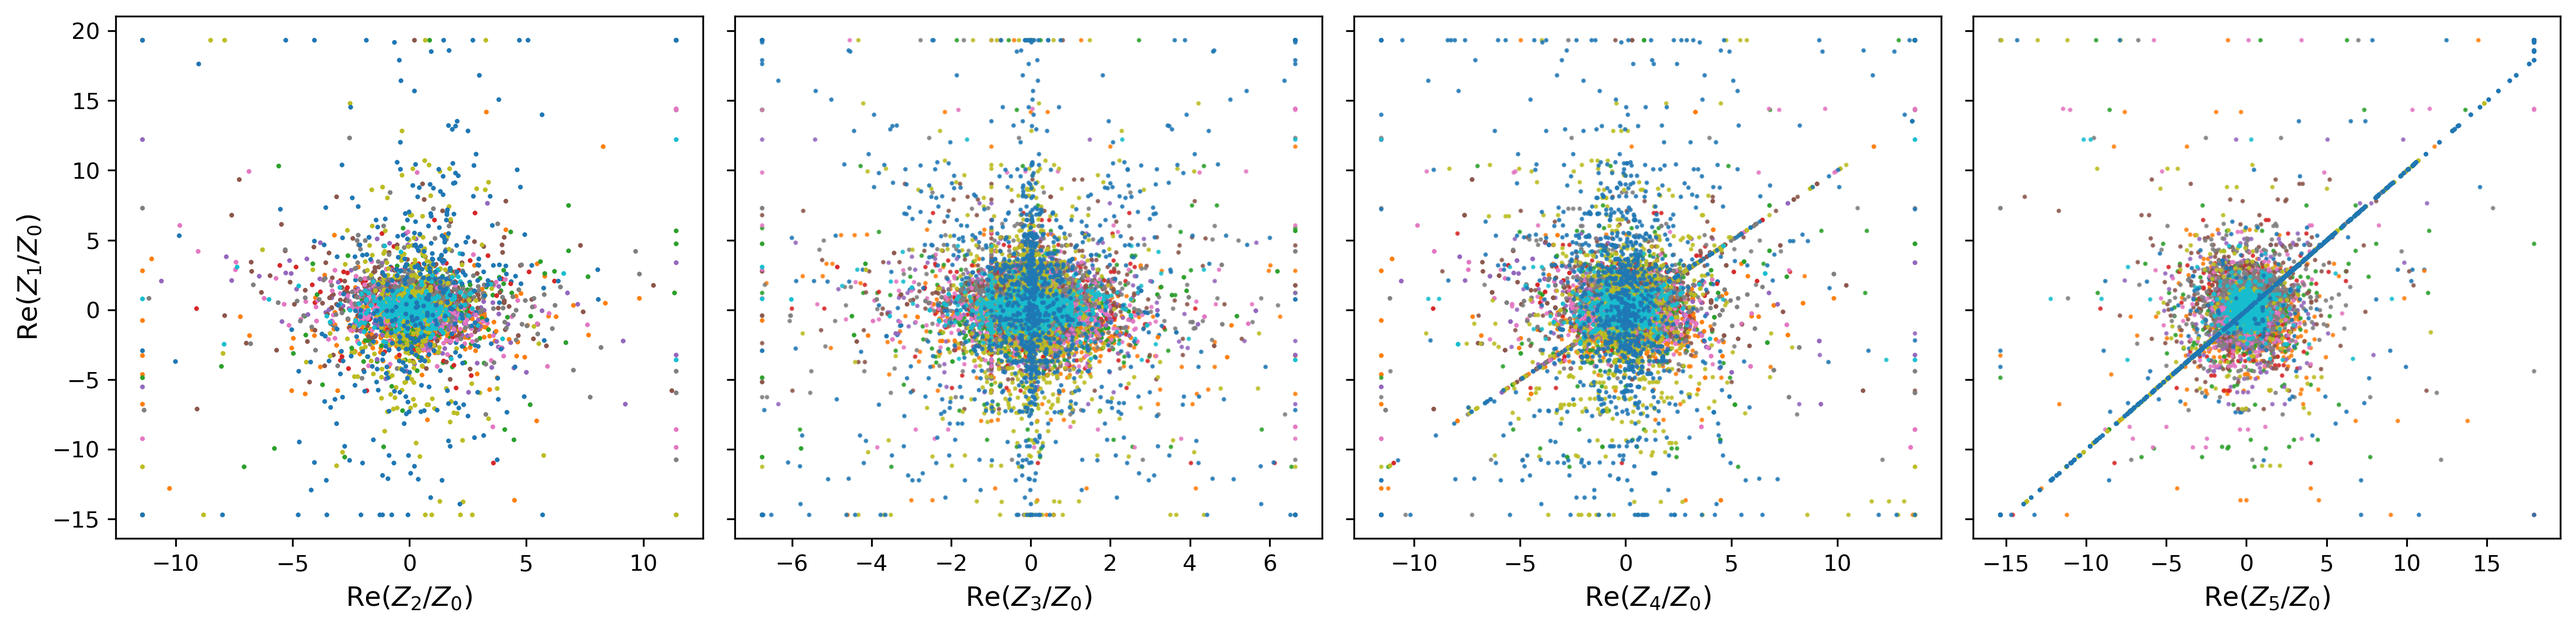
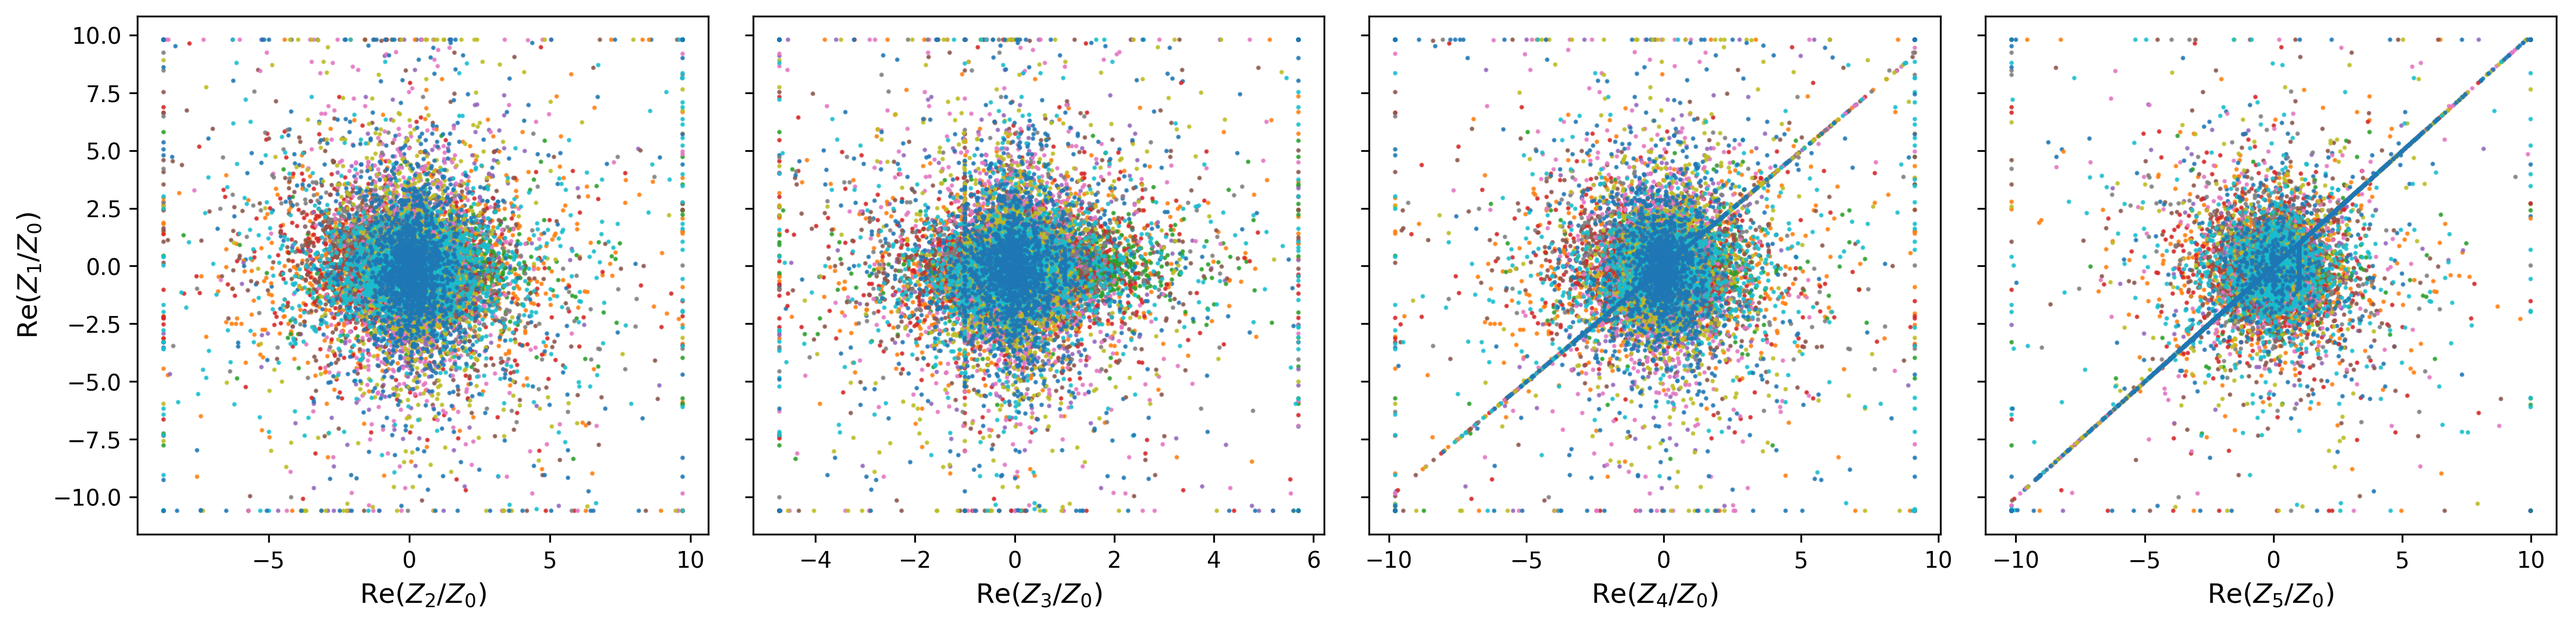
Updated patch normalization, other bug fixes

diff --git a/IPS/PointGeneratorMathematicaCICYIPS.m b/IPS/PointGeneratorMathematicaCICYIPS.m
@@ -1,14 +1,17 @@
-(* ::Package:: *)
-
-(* Improved Point Sampling for CICYs *)
+(* Improved Point Sampling for CICYs developed by Eric Habjan *)
 (* Based on Keller-Lukic 0907.1387 Section 3.2 *)
 
+
+(* Sample points on sphere *)
 SamplePointsOnSphere[dimP_, numPts_] := Module[{randomPoints}, (
+
     randomPoints = RandomVariate[NormalDistribution[], {numPts, dimP, 2}];
     randomPoints = randomPoints[[;;, ;;, 1]] + I randomPoints[[;;, ;;, 2]];
     randomPoints = Normalize /@ randomPoints;
     Return[randomPoints];
+
 )];
+
 
 PrintMsg[msg_, frontEnd_, verbose_] := Module[{}, (
     If[verbose > 0,
@@ -20,6 +23,7 @@ PrintMsg[msg_, frontEnd_, verbose_] := Module[{}, (
         ];
     ];
 )];
+
 
 (* Compute Fubini-Study metric with optional Hermitian matrix h *)
 getFS[varsUnflat_, bvarsUnflat_, h_: {}, kval_: 1] := Module[{hh, s, bs, kk, dimPs, result, i, j, a, b}, (
@@ -62,19 +66,6 @@ getWeightOmegas[varsFlat_, bvarsFlat_, varsUnflat_, dimPs_, g_, eqns_, beqns_, p
     maxPos, maxPosGlobal, goodCoordsIndexSet, \[Omega]Top, OmegaOmegaBar, 
     substCoords, substbCoords, jacRows, i, j, a, b, numEqns, dimCY},
     (
-    
-    (* DEBUG: Verify inputs *)
-    If[Length[eqns] != Length[beqns],
-        Print["ERROR: eqns and beqns have different lengths!"];
-        Print["  Length[eqns] = ", Length[eqns]];
-        Print["  Length[beqns] = ", Length[beqns]];
-        Return[{Indeterminate, Indeterminate}];
-    ];
-
-    If[!And @@ (NumericQ /@ Flatten[pt]),
-        Print["ERROR: Point has non-numeric values!"];
-        Return[{Indeterminate, Indeterminate}];
-    ];
 
     numEqns = Length[eqns];
     dimCY = Length[varsFlat] - numEqns;
@@ -104,14 +95,6 @@ getWeightOmegas[varsFlat_, bvarsFlat_, varsUnflat_, dimPs_, g_, eqns_, beqns_, p
             {j, Length[localbCoords]}
         ] /. substbCoords;
         AppendTo[bjacRows, bderivs];
-    ];
-
-    (* Optional sanity check (helps catch the exact failure in your logs): *)
-    If[Length[bjacRows] != numEqns || Length[bjacRows[[1]]] != Length[localbCoords],
-        Print["ERROR in bjacRows construction!"];
-        Print["  Expected dimensions: ", {numEqns, Length[localbCoords]}];
-        Print["  Actual dimensions: ", Dimensions[bjacRows]];
-        Return[{Indeterminate, Indeterminate}];
     ];
 
     detTol  = 10^-6;       (* numerical threshold for smallest singular value *)
@@ -207,20 +190,6 @@ getWeightOmegas[varsFlat_, bvarsFlat_, varsUnflat_, dimPs_, g_, eqns_, beqns_, p
     (* Build antiholomorphic Jacobian submatrix *)
     bjacSubmatrix = Table[bjacRows[[alpha, maxPoss[[beta]]]], {alpha, numEqns}, {beta, numEqns}];
     bjacSubmatrixInv = Inverse[bjacSubmatrix];
-
-    If[Length[bjacRows] != numEqns || Length[bjacRows[[1]]] != Length[localCoords],
-        Print["ERROR in bjacRows construction!"];
-        Print["  Expected dimensions: ", {numEqns, Length[localCoords]}];
-        Print["  Actual dimensions: ", Dimensions[bjacRows]];
-        Return[{Indeterminate, Indeterminate}];
-    ];
-
-    If[Abs[Det[jacSubmatrix]] < 10^(-10) || Abs[Det[bjacSubmatrix]] < 10^(-10),
-        Print["ERROR: Selected Jacobians are singular!"];
-        Print["  |det(J)| = ", Abs[Det[jacSubmatrix]]];
-        Print["  |det(J̄)| = ", Abs[Det[bjacSubmatrix]]];
-        Return[{Indeterminate, Indeterminate}];
-    ];
 
     (* DEBUG: Check if antiholomorphic Jacobian is singular *)
     If[!And @@ (NumericQ /@ Flatten[bjacSubmatrixInv]),
@@ -394,21 +363,27 @@ GetNewLambdas[varsFlat_, bvarsFlat_, varsUnflat_, bvarsUnflat_, dimPs_, eqns_, b
     }];
 )];
 
+(* Patch Normalization Functions *)
+splitByBlocks[pt_, dimPs_] := TakeList[pt, dimPs + 1];
+
+patchNormalizeFlatPoint[pt_, dimPs_, denomTol_: 10^-30] := Module[
+  {blocks, absBlocks, localMaxPos, denoms, normBlocks},
+  blocks = splitByBlocks[pt, dimPs];
+  absBlocks = Abs /@ blocks;
+  localMaxPos = Ordering[#, -1][[1]] & /@ absBlocks;
+  denoms = MapThread[#1[[#2]] &, {blocks, localMaxPos}];
+  If[Min[Abs[denoms]] < denomTol, Return[$Failed]];
+  normBlocks = MapThread[#1/#2 &, {blocks, denoms}];
+  Chop @ Flatten[normBlocks]
+];
+
+
 (* Sample points on CICY with given metric *)
 getPointsOnCYIPS[varsUnflat_, numParamsInPn_, dimPs_, params_, pointsOnSphere_, 
     eqns_, L_, precision_: 20] := Module[
     {subst, pts, i, j, a, b, c, res, maxPoss, absPts, transformedParams, 
-     LInvTranspose, transformedSphere},
+     LInvTranspose, transformedSphere, eqSystem, paramVars},
     (
-    Print["getPointsOnCYIPS: L structure: ", Dimensions /@ L];
-    Print["getPointsOnCYIPS: pointsOnSphere structure: ", Dimensions /@ pointsOnSphere];
-    Print["getPointsOnCYIPS: First L matrix: ", L[[1]]];
-    
-    (* KEY CHANGE: Apply L^{-T} to the sphere points to transform the MEASURE *)
-    (* If L = Cholesky(λ^{-1}), then the transformed inner product is *)
-    (* <v, w>_new = <L^T v, L^T w>_standard *)
-    (* To generate random vectors with respect to this new inner product, *)
-    (* we need to apply L^{-T} to standard normal random vectors *)
     
     (* For each projective space, compute L^{-T} and apply to sphere points *)
     transformedSphere = Table[
@@ -430,17 +405,10 @@ getPointsOnCYIPS[varsUnflat_, numParamsInPn_, dimPs_, params_, pointsOnSphere_,
                 {b, 1, Length[pointsOnSphere[[j]]]}
             ]
         ],
-        {j, 1, Length[pointsOnSphere]}
+        {j, 1, Length[dimPs]}
     ];
     
-    Print["getPointsOnCYIPS: Sample transformed sphere: ", transformedSphere[[1, 1]]];
-    Print["getPointsOnCYIPS: Sample original sphere: ", pointsOnSphere[[1, 1]]];
-    Print["getPointsOnCYIPS: Norm of transformed: ", 
-        Sqrt[Conjugate[transformedSphere[[1, 1]]] . transformedSphere[[1, 1]]]];
-    Print["getPointsOnCYIPS: Are they different? ", 
-        transformedSphere[[1, 1]] != pointsOnSphere[[1, 1]]];
-    
-    (* Now build substitution using transformed sphere points *)
+    (* Build substitution using transformed sphere points *)
     subst = {};
     For[j = 1, j <= Length[dimPs], j++,
         AppendTo[subst, 
@@ -454,25 +422,42 @@ getPointsOnCYIPS[varsUnflat_, numParamsInPn_, dimPs_, params_, pointsOnSphere_,
     subst = Flatten[subst];
     
     (* Solve for parameters that put us on the CICY *)
-    res = FindInstance[
-        Table[eqns[[i]] == 0, {i, Length[eqns]}] /. subst,
-        Variables[Flatten[params]],
-        Complexes,
-        1000,
-        WorkingPrecision -> precision
-    ];
+    eqSystem = Table[eqns[[i]] == 0, {i, Length[eqns]}] /. subst;
+    eqSystem = SetPrecision[eqSystem, precision];
+
+    paramVars = Flatten[Rest /@ params];
+
+    res = FindInstance[eqSystem, paramVars, Complexes, 1, WorkingPrecision -> precision];
+    res = res /. HoldPattern[Null * r_Rule] :> r /. HoldPattern[r_Rule * Null] :> r;
+    res = Which[
+        res === {} || res === Null || res === $Failed, {},
+        MatchQ[res, {{(_Rule | _RuleDelayed) ..} ..}], res,
+        MatchQ[res, {(_Rule | _RuleDelayed) ..}], {res},
+        True, {}
+        ];
+
     
-    (* Extract points using the transformed parametrization *)
-    pts = Chop[(varsUnflat /. subst) /. res];
+    (*Quiet @ Check[If[Length[paramVars] == 1 && Length[eqSystem] == 1,
+    NSolve[eqSystem, paramVars, WorkingPrecision -> precision, AccuracyGoal -> Floor[precision/2], 
+    PrecisionGoal -> Floor[precision/2]
+    (*, MaxExtraPrecision -> 2 precision, Method -> "EndomorphismMatrix"*)
+    ],
+    FindInstance[eqSystem, paramVars, Complexes, 1000, WorkingPrecision -> precision, AccuracyGoal -> Floor[precision/2],
+    PrecisionGoal -> Floor[precision/2]
+    (*, MaxExtraPrecision -> 2 precision, Method -> "NMinimize"*)
+    ]],
+    {}];*)
+
+    If[res === {} || res === Null, Return[{}]];
+
+    pts = Chop @ N[(varsUnflat /. subst) /. res, precision];
+    pts = Map[Flatten, pts];
+    pts = Select[pts, VectorQ[#, NumericQ] && Length[#] == Length@Flatten[varsUnflat] &];
+    If[pts === {}, Return[{}]];
     
-    (* Go to patch where largest coordinate is 1 *)
-    absPts = Abs[pts];
-    For[i = 1, i <= Length[pts], i++,
-        pts[[i]] = Chop[Flatten[
-            Table[pts[[i, j]] / pts[[i, j, Ordering[absPts[[i, j]], -1][[1]]]], 
-                {j, Length[dimPs]}]
-        ]];
-    ];
+    (* Patch Normalization *)
+    pts = Select[patchNormalizeFlatPoint[#, dimPs] & /@ pts, # =!= $Failed &];
+    If[pts === {}, Return[{}]];
     
     Return[pts];
 )];
@@ -499,12 +484,19 @@ SamplePointsIPS[varsFlat_, bvarsFlat_, varsUnflat_, bvarsUnflat_, dimPs_,
     (* Tolerance *)
     eqnTol = 10^(-Floor[precision/2]);
 
-    eqnResidual[pt_List] := Module[{vals},
+    (*eqnResidual[pt_List] := Module[{vals},
     vals = (eqns /. Thread[varsFlat -> SetPrecision[pt, precision]]);
     Max[Abs[N[vals, precision]]]
+    ];*)
+
+    eqnResidual[pt_List] /; VectorQ[pt, NumericQ] && Length[pt] == Length[varsFlat] := Module[{vals},
+    vals = eqns /. Thread[varsFlat -> SetPrecision[pt, precision]];
+    Max[Abs[N[vals, precision]]]
     ];
+
+    eqnResidual[_] := Infinity;
     
-    (* Determine parameter distribution (same as original code) *)
+    (* Determine parameter distribution *)
     conf = {};
     For[i = 1, i <= Length[coefficients], i++,
         start = 1;
@@ -558,10 +550,8 @@ SamplePointsIPS[varsFlat_, bvarsFlat_, varsUnflat_, bvarsUnflat_, dimPs_,
     (* Generate points *)
 
     Clear[t];
-    params = Table[
-        Join[{1}, Table[Subscript[t, j, k], {k, numParamsInPn[[j]]}]],
-        {j, Length[numParamsInPn]}
-    ];
+
+    params = Table[Join[{1}, Array[Unique["t"] &, numParamsInPn[[j]]]], {j, Length[numParamsInPn]}];
 
     ptsGood = {};
     tries = 0;
@@ -578,9 +568,6 @@ SamplePointsIPS[varsFlat_, bvarsFlat_, varsUnflat_, bvarsUnflat_, dimPs_,
             DistributedContexts -> Automatic
         ];
 
-        Print["SamplePointsIPS: Batch ", tries, " sampling ", numPoints,
-            " intersections (need ", (numPts - Length[ptsGood]), " more)."];
-
         (* Sample points with metric transformation *)
         ptsBatch = ParallelTable[
             getPointsOnCYIPS[varsUnflat, numParamsInPn, dimPs, params,
@@ -592,13 +579,14 @@ SamplePointsIPS[varsFlat_, bvarsFlat_, varsUnflat_, bvarsUnflat_, dimPs_,
         ];
     
         ptsBatch = Flatten[ptsBatch, 1];
+        ptsBatch = Select[ptsBatch, MatchQ[#, {_?NumericQ ..}] && Length[#] == Length[varsFlat] &];
         Print["SamplePointsIPS: Batch ", tries, " produced ", Length[ptsBatch], " raw points."];
 
         (* Residuals + filtering *)
-        residuals = ParallelMap[eqnResidual, ptsBatch, DistributedContexts -> Automatic];
-        mask = residuals < eqnTol;
+        residuals = eqnResidual /@ ptsBatch;
+        mask = Thread[residuals < eqnTol];
 
-        ptsKeep = Pick[ptsBatch, mask];
+        ptsKeep = Pick[ptsBatch, mask, True];
         nKeep = Length[ptsKeep];
 
         ptsGood = Join[ptsGood, ptsKeep];
@@ -606,13 +594,6 @@ SamplePointsIPS[varsFlat_, bvarsFlat_, varsUnflat_, bvarsUnflat_, dimPs_,
         Print["SamplePointsIPS: Batch ", tries, " kept ", nKeep,
           " points (eqnTol=", eqnTol, "). Total kept = ", Length[ptsGood], "."];
         ];
-    
-    If[Length[ptsGood] < numPts,
-    Print["ERROR: Could not collect enough valid points. Got ", Length[ptsGood],
-          " but need ", numPts, " after ", tries, " batches.",
-          " Consider loosening eqnTol or increasing precision."];
-    Return[{$Failed, $Failed}];
-    ];
 
     pts = ptsGood;
 

diff --git a/cymetric/weierstrass_cubic/weierstrass_sampling.py b/cymetric/weierstrass_cubic/weierstrass_sampling.py
@@ -1,49 +1,44 @@
 import numpy as np
 import mpmath as mp
-from cymetric.pointgen.pointgen import PointGenerator
+from cymetric.pointgen.pointgen_cicy import CICYPointGenerator
 
 
 ### Use Cymetric to generate data on the Weierstrass cubic in $\mathbb{P}^2$
 
 
-fname = "/home/habjan.e/CY_metric/data/weierstrass"
+fname = "/Users/erich/Downloads/Northeastern/ips_home/Data/weierstrass"
 
 # Ambient space dimension
 ambient = np.array([2], dtype=np.int64)
 
 # Exponents for each monomial 
-monomials = np.array([
+monomials = [np.array([
     [1,0,2],
     [0,3,0],
     [2,1,0],
-], dtype=np.int64)
+], dtype=np.int64)]
 
 # Coefficients for the monomials, in the same order:
 # F = g_0 * (Z2^2 Z0) + g_1 * (Z1^3) + g_2 * (Z1 Z0^2)
 a = 1.0
 b = -4.0
 c = 3.151212 * 60          # 60 * G4(i) \approx 60 * 3.151212
-shape_moduli = np.array([a, b, c], dtype=np.complex128)
+shape_moduli = [np.array([a, b, c], dtype=np.complex128)]
 
 # Kähler/volume moduli (one for ℙ^2)
 vol_moduli = np.array([1.0], dtype=np.float64)
 
-pg = PointGenerator(monomials, shape_moduli, vol_moduli, ambient)
-kappa = pg.prepare_dataset(200_000, fname)
-pg.prepare_basis(fname, kappa=kappa)
+if __name__ == "__main__":
+
+    pg = CICYPointGenerator(monomials, shape_moduli, vol_moduli, ambient)
+    kappa = pg.prepare_dataset(200_000, fname)
+    pg.prepare_basis(fname, kappa=kappa)
+
+    num_points = 10**4
+    Z = pg.generate_points(num_points)
 
 
+    ### Save the points to a numpy file in the file created above
+    np.save(fname + f'/weierstrass_sampling.npy', Z)
 
-### Generate some points on the Weierstrass Cubic
-
-
-num_points = 10**4
-
-Z = pg.generate_points(num_points)
-
-
-### Save the points to a numpy file in the file created above
-
-np.save('/home/habjan.e/CY_metric/ips_sampling/cymetric/weierstrass_cubic/weierstrass_sampling.npy', Z)
-
-print('Weierstrass Cubic sampled and saved!')
+    print('Weierstrass Cubic sampled and saved!')

diff --git a/IPS/run_IPS_scripts/run_torus.m b/IPS/run_IPS_scripts/run_torus.m
@@ -7,11 +7,11 @@ coefficients = {{1.0, -4.0, 189.07272}};
 exponents = {{{1,0,2}, {0,3,0}, {2,1,0}}};
 
 (* Number of regions *)
-numRegions = 3;
+numRegions = 19;
 
 (* Generate points *)
 {points, weights, omegas, kappas, {dimCY}} = GeneratePointsMCICYIPS[
-    200,                (* total points *)
+    20000,                (* total points *)
     numRegions,         (* regions *)
     dimPs,
     coefficients,

diff --git a/IPS/run_IPS_scripts/run_bicubic.m b/IPS/run_IPS_scripts/run_bicubic.m
@@ -16,11 +16,11 @@ exponents = {{
 }};
 
 (* Number of regions *)
-numRegions = 3;
+numRegions = 11;
 
 (* Generate points *)
 {points, weights, omegas, kappas, {dimCY}} = GeneratePointsMCICYIPS[
-    200,      (* total points *)
+    20000,      (* total points *)
     numRegions,         (* regions *)
     dimPs,
     coefficients,
